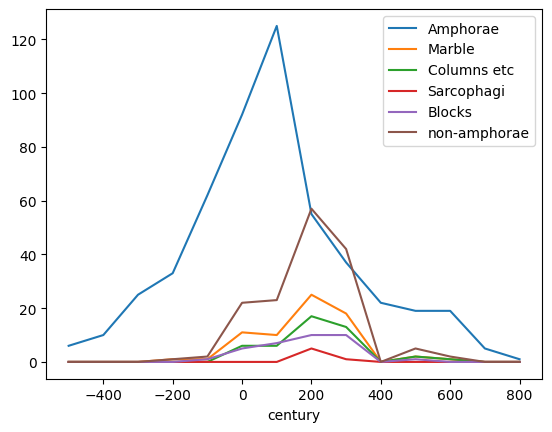
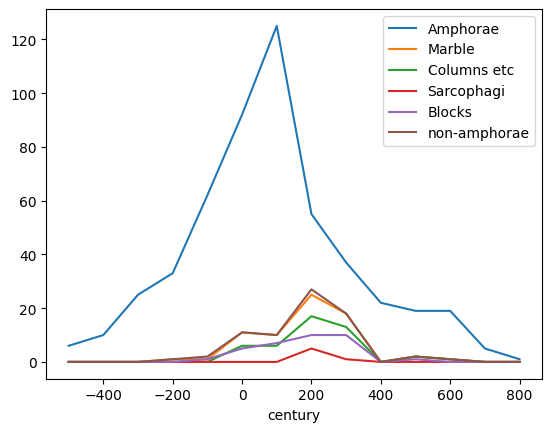
fix roman_shipwrecks

diff --git a/roman_shipwrecks/code.py b/roman_shipwrecks/code.py
@@ -4,28 +4,12 @@ import matplotlib.pyplot as plt
 import math
 from functools import reduce
 
-os.system('wget http://oxrep.classics.ox.ac.uk/docs/StraussShipwrecks.zip')
-os.system('unzip StraussShipwrecks.zip')
+# get dataset
+if not os.path.exists('StraussShipwrecks.zip'):
+    os.system('wget http://oxrep.classics.ox.ac.uk/docs/StraussShipwrecks.zip')
+    os.system('unzip StraussShipwrecks.zip')
 
 df = pd.read_excel('StraussShipwrecks.xlsx', engine='openpyxl')
-
-df['mid_date'] = (df['Earliest date'] + df['Latest date'])/2
-df = df.dropna(subset=['mid_date'])
-df = df[-500 <= df['mid_date']]
-df = df[df['mid_date'] <= 800]
-df['century'] = df['mid_date'].apply(lambda year:math.ceil(year/100)*100)
-
-all_wrecks = df.groupby('century')['Wreck ID'].count()
-
-plt.figure()
-all_wrecks.plot()
-plt.savefig('all_wrecks.png',bbox_inches='tight')
-plt.show()
-
-# grouped by cargo
-
-def get_groups_by_column(df, col):
-    return df[df[col]].groupby('century')['Wreck ID'].count().to_frame(name=col)
 
 """
 >>> df.columns
@@ -39,15 +23,35 @@ def get_groups_by_column(df, col):
        'Ship equipment', 'Estimated tonnage', 'Amphora type']
 """
 
+# plot all shipwrecks
+df['mid_date'] = (df['Earliest date'] + df['Latest date'])/2
+df = df.dropna(subset=['mid_date'])
+df = df[-500 <= df['mid_date']]
+df = df[df['mid_date'] <= 800]
+df['century'] = df['mid_date'].apply(lambda year:math.ceil(year/100)*100)
+
+all_wrecks = df.groupby('century')['Wreck ID'].count()
+
+all_wrecks.plot()
+plt.savefig('all_wrecks.png',bbox_inches='tight')
+plt.show()
+
+# grouped by cargo
+
+def get_groups_by_column(df, col):
+    return df[df[col]].groupby('century')['Wreck ID'].count().to_frame(name=col)
+
 cargo_columns = ['Amphorae', 'Marble', 'Columns etc', 'Sarcophagi', 'Blocks',]
 
 data = [get_groups_by_column(df, c) for c in cargo_columns]
-
 table = reduce(lambda x, y: x.merge(y, how='outer', on='century'), data)
-table = table.fillna(0)
-table['non-amphorae'] = table.apply(lambda row: sum([row[c] for c in cargo_columns if c != 'Amphorae']), axis=1)
 
-plt.figure()
+df['non-amphorae'] = df.apply(lambda row: any([row[c]==True for c in cargo_columns if c != 'Amphorae']), axis=1)
+non_amphorae = get_groups_by_column(df, 'non-amphorae')
+table = table.merge(non_amphorae, how='outer', on='century')
+
+table = table.fillna(0)
+
 table.plot()
 plt.savefig('table.png',bbox_inches='tight')
 plt.show()
